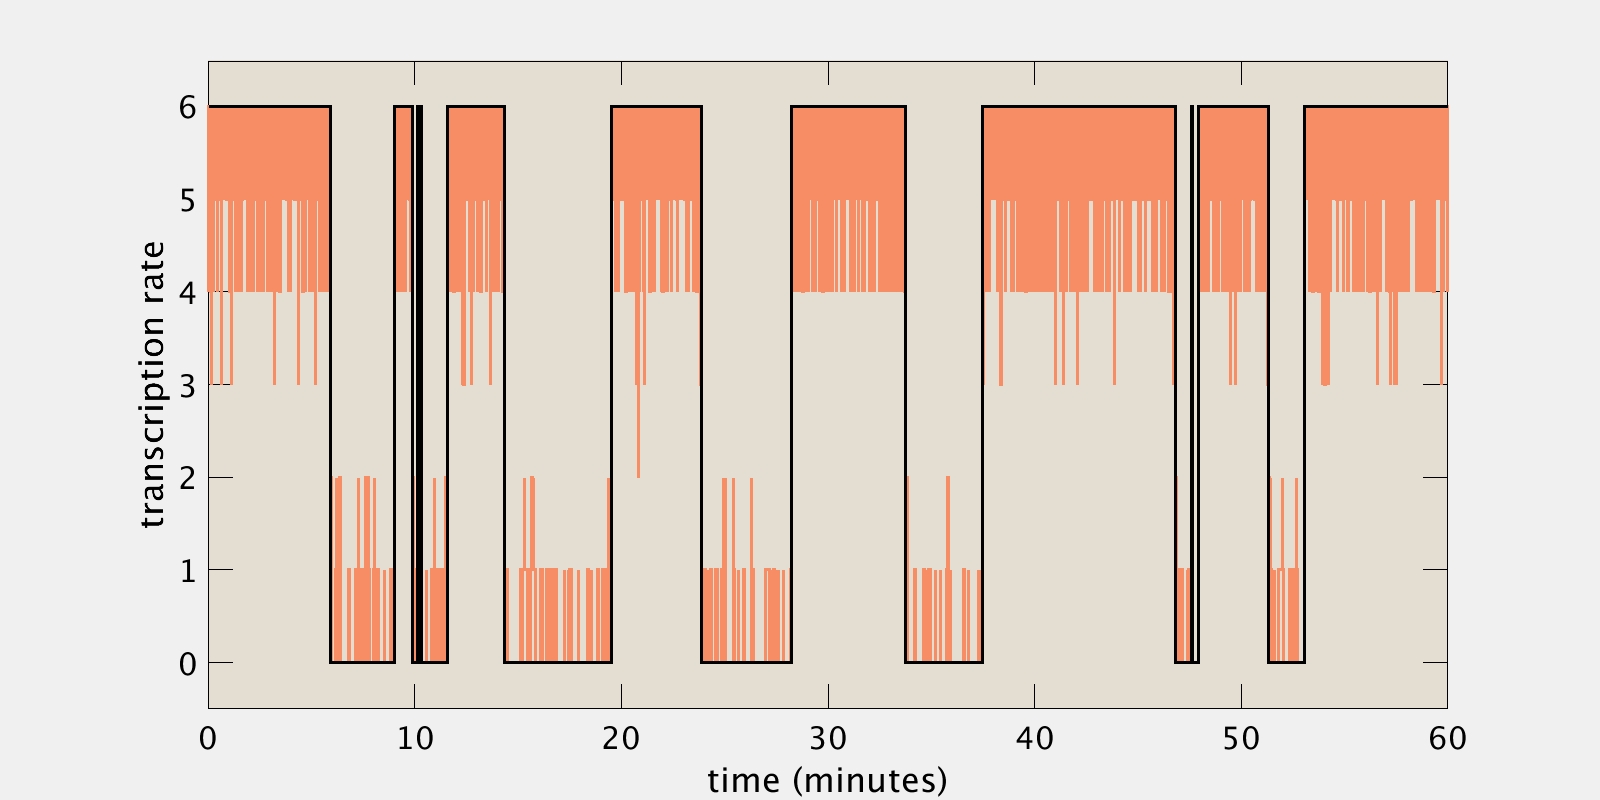
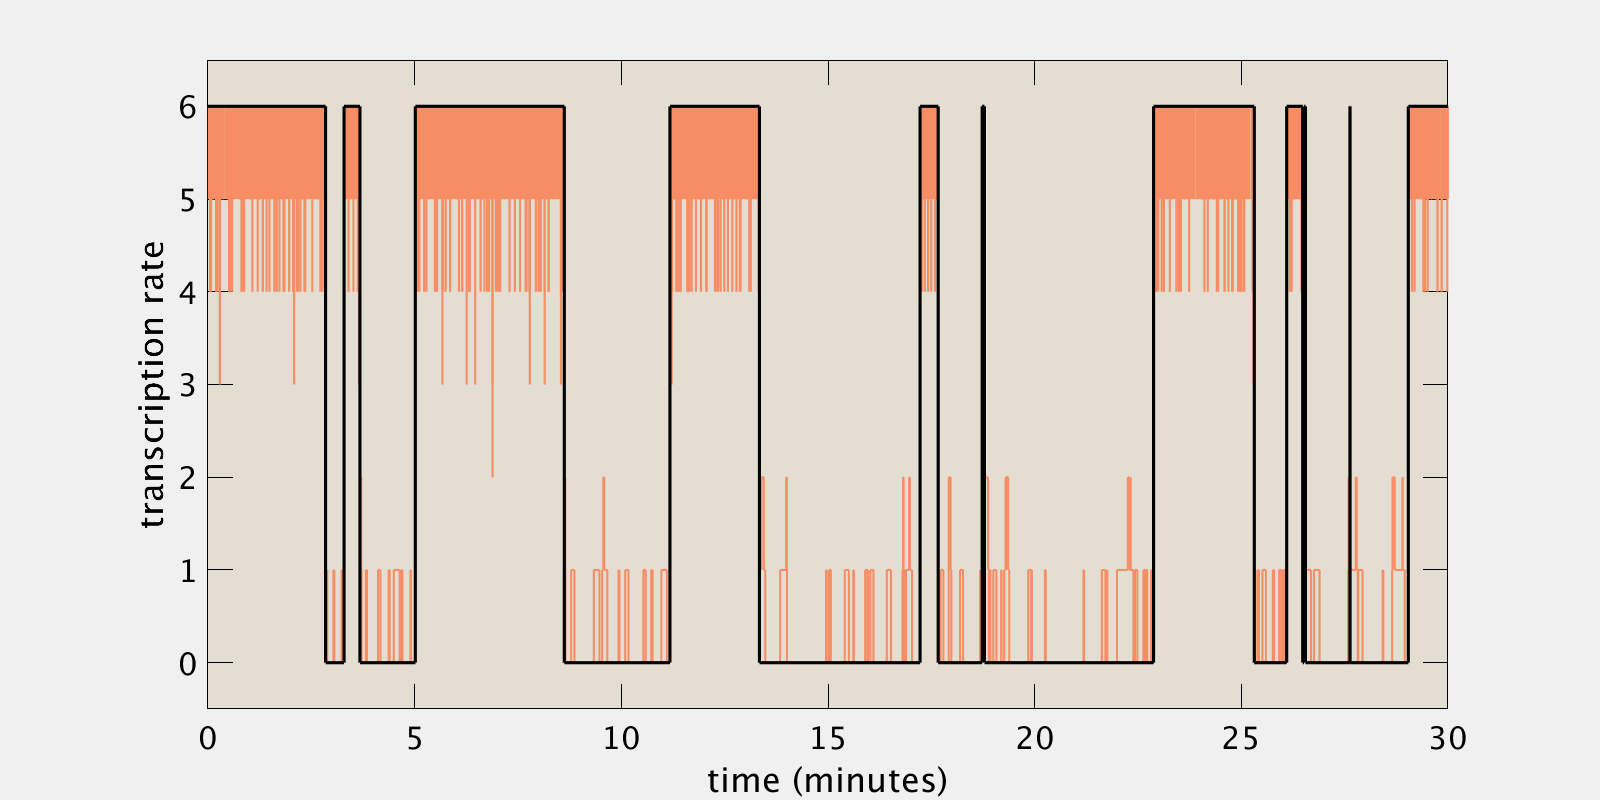
Minor changes to plotting script

diff --git a/src/model_selection02_make_figures.m b/src/model_selection02_make_figures.m
@@ -36,14 +36,14 @@ cmap1 = [green ; blue ;red];
 %%%%%%%%%%%%%%%%%%%%%%%%%%%%%%%%%%%%%%%%
 % (1) Make figure illustrating passage time concept
 %%%%%%%%%%%%%%%%%%%%%%%%%%%%%%%%%%%%%%%%
-
+%%
 % specify appropriate index
 rateLim_sim_index = find(contains(sim_name_cell,'2rate-limiting'));
-%%
+
 %  extract n bound vec
-rateLim_sim_sub_index = 2;
+rateLim_sim_sub_index = 1;
 % plot results of stochastic simulations
-trace_index = 5;
+trace_index = 7;
 
 state_fig = figure('Position',[100 100 1024 512]);
 hold on
@@ -58,19 +58,19 @@ viterbi_time = waiting_time_struct(rateLim_sim_index).time_vector;
 viterbi_fit = waiting_time_struct(rateLim_sim_index).viterbi_traces(trace_index,:,rateLim_sim_sub_index)*n_bcd_sites;
 
 stairs(viterbi_time/60, trace_raw,'Color',red,'LineWidth',1);
-stairs(viterbi_time/60, viterbi_fit,'Color','k','LineWidth',1);
+stairs(viterbi_time/60, viterbi_fit,'Color','k','LineWidth',1.5);
 
 ylim(ylimTrace)
-xlim([0 t_max])
+xlim([0 30])
 ylabel('transcription rate')
 xlabel('time (minutes)')
 box on
 set(gca,'Fontsize',14,'YTick',n_bound_vec)
 p = plot(0,0);
+StandardFigurePBoC(p,gca);
 ax = gca;
 ax.YColor = 'black';
 ax.XColor = 'black';
-StandardFigurePBoC(p,gca);
 state_fig.InvertHardcopy = 'off';
 saveas(state_fig,[FigurePath 'rateLim_trace.png'])
 saveas(state_fig,[FigurePath 'rateLim_trace.pdf'])
@@ -78,18 +78,52 @@ saveas(state_fig,[FigurePath 'rateLim_trace.pdf'])
 %%%%%%%%%%%%%%%%%%%%%%%%%%%%%%%%%%%%%%%%
 %% (2) Make figures showing passage times for rate-limiting step mode
 %%%%%%%%%%%%%%%%%%%%%%%%%%%%%%%%%%%%%%%%
-rateLim_sim_indices = find(contains(sim_name_cell,{'1rate-limiting','2rate-limiting','5rate-limiting','15rate-limiting'}));
-close all
-% raw histogram figure
-wt_bins = linspace(0,6,25);
+rateLim_sim_indices = find(ismember(sim_name_cell,{'1rate-limiting steps','2rate-limiting steps','5rate-limiting steps'}));
 
+wt_bins = linspace(0,6,35);
+wt_centers = (wt_bins(1:end-1)+wt_bins(2:end))/2;
+% define objective function to fit erlang distribution
+gamma_fun = @(a,b) (b^a .* wt_centers.^(a-1).*exp(-wt_centers*b)) / gamma(a);
+% perform fits
+options = optimoptions(@lsqnonlin,'MaxFunctionEvaluations',1e4);
+rl_fit_struct = struct;
+for i = 1:length(rateLim_sim_indices)
+  wait_times = waiting_time_struct(rateLim_sim_indices(i)).off_waiting_times{rateLim_sim_sub_index}/60;
+  wait_times = wait_times(wait_times>0.05);
+  p_vec = histcounts(wait_times,wt_bins);%,'Normalization','probability');  
+  gamma_objective = @(x) p_vec-x(3)*gamma_fun(x(1),x(2));
+  rl_fit_struct(i).params = lsqnonlin(gamma_objective,[1 1 1],[0 0 0],[20 20 Inf],options);
+  pd_curve = gamma_fun(rl_fit_struct(i).params(1),rl_fit_struct(i).params(2));
+  rl_fit_struct(i).pd_curve = pd_curve/sum(pd_curve);
+end
+
+% raw histogram figure
+%%
+close all
 rl_hist_fig = figure;
 cmap = brewermap(2+length(rateLim_sim_indices),'Set2');
 hold on
-iter = length(rateLim_sim_indices);
-for i = fliplr(rateLim_sim_indices)
-  histogram(waiting_time_struct(i).off_waiting_times{1}/60,wt_bins,'Normalization','probability','FaceColor',cmap(1+iter,:));
-  iter = iter - 1;
+for i = [1 3]
+  
+  % extract waiting times
+  wait_times = waiting_time_struct(rateLim_sim_indices(i)).off_waiting_times{rateLim_sim_sub_index}/60;
+  wait_times = wait_times(wait_times>0.05);
+  
+  % plot histogram
+  histogram(wait_times,wt_bins,...
+    'Normalization','probability','FaceColor',cmap(1+i,:),'EdgeAlpha',.5,'FaceAlpha',0.2);
+  
+  plot(wt_centers,rl_fit_struct(i).pd_curve,'Color',cmap(1+i,:),'LineWidth',2)
 end
 
+xlim([0 wt_bins(end)])
+ylabel('passage time (minutes)')
+xlabel('share')
+% call PBoC formatting function
+p = plot(0,0);
+StandardFigurePBoC(p,gca);
+ax = gca;
+ax.YColor = 'black';
+ax.XColor = 'black';
+rl_hist_fig.InvertHardcopy = 'off';
 
